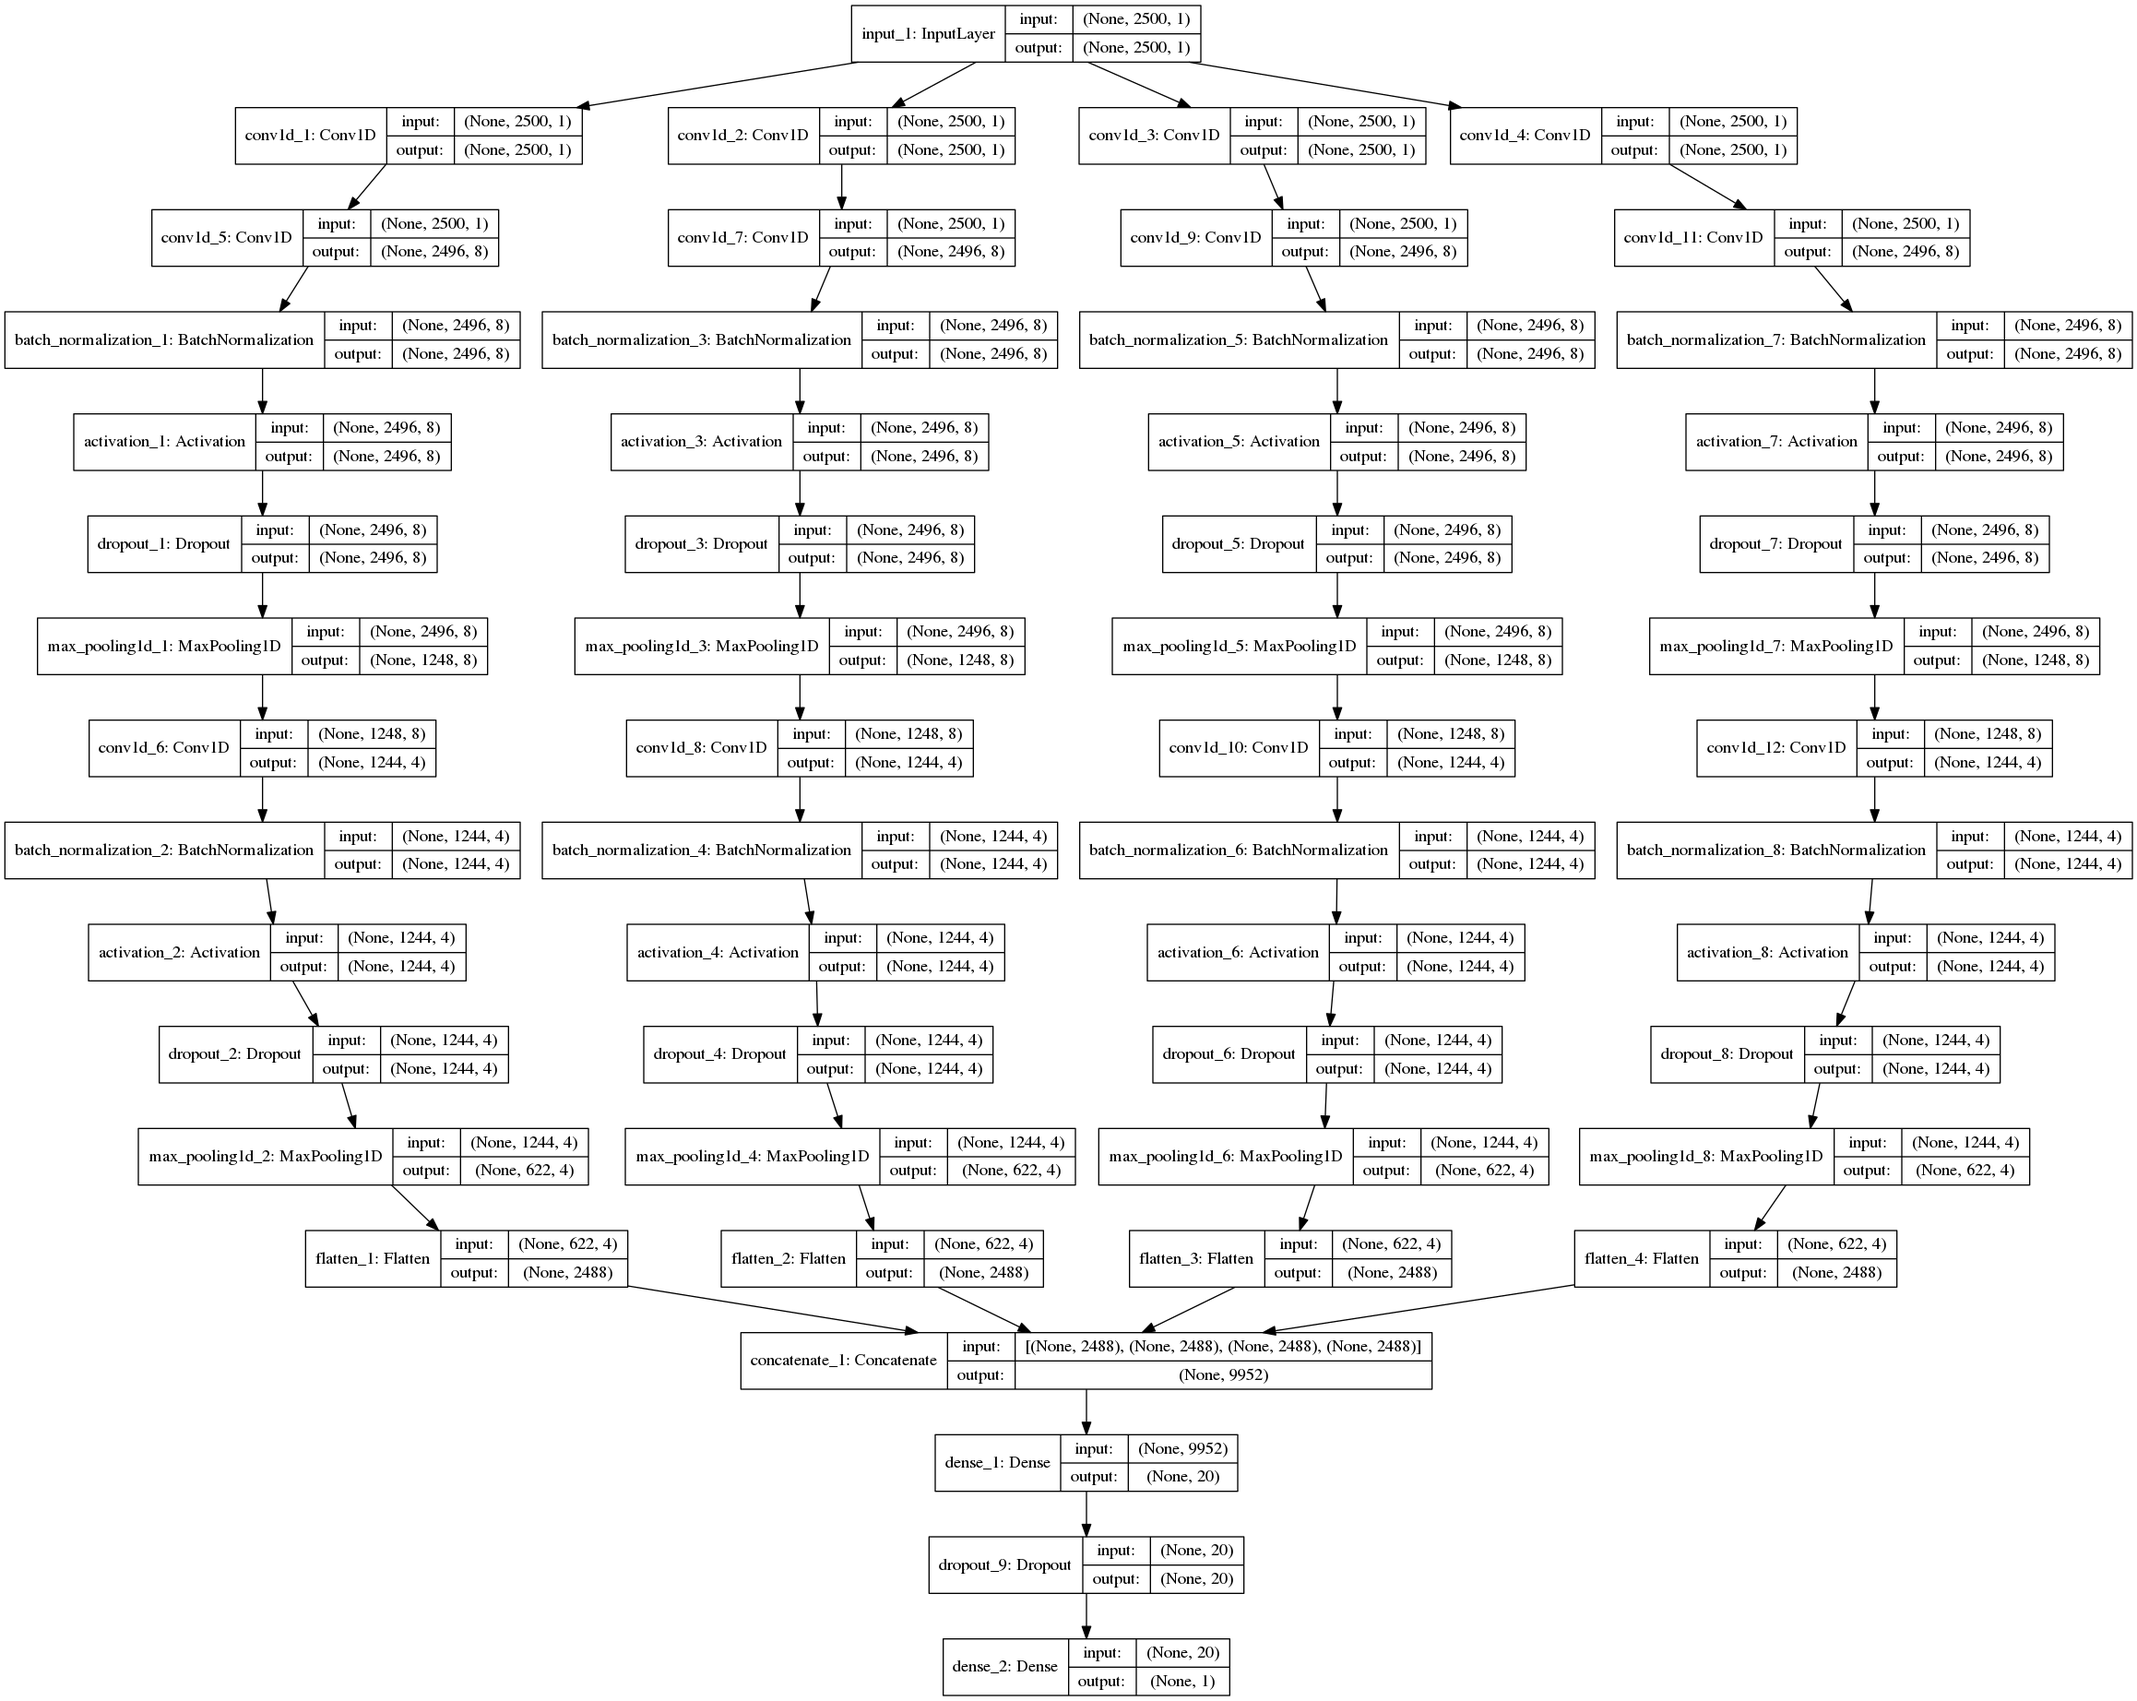
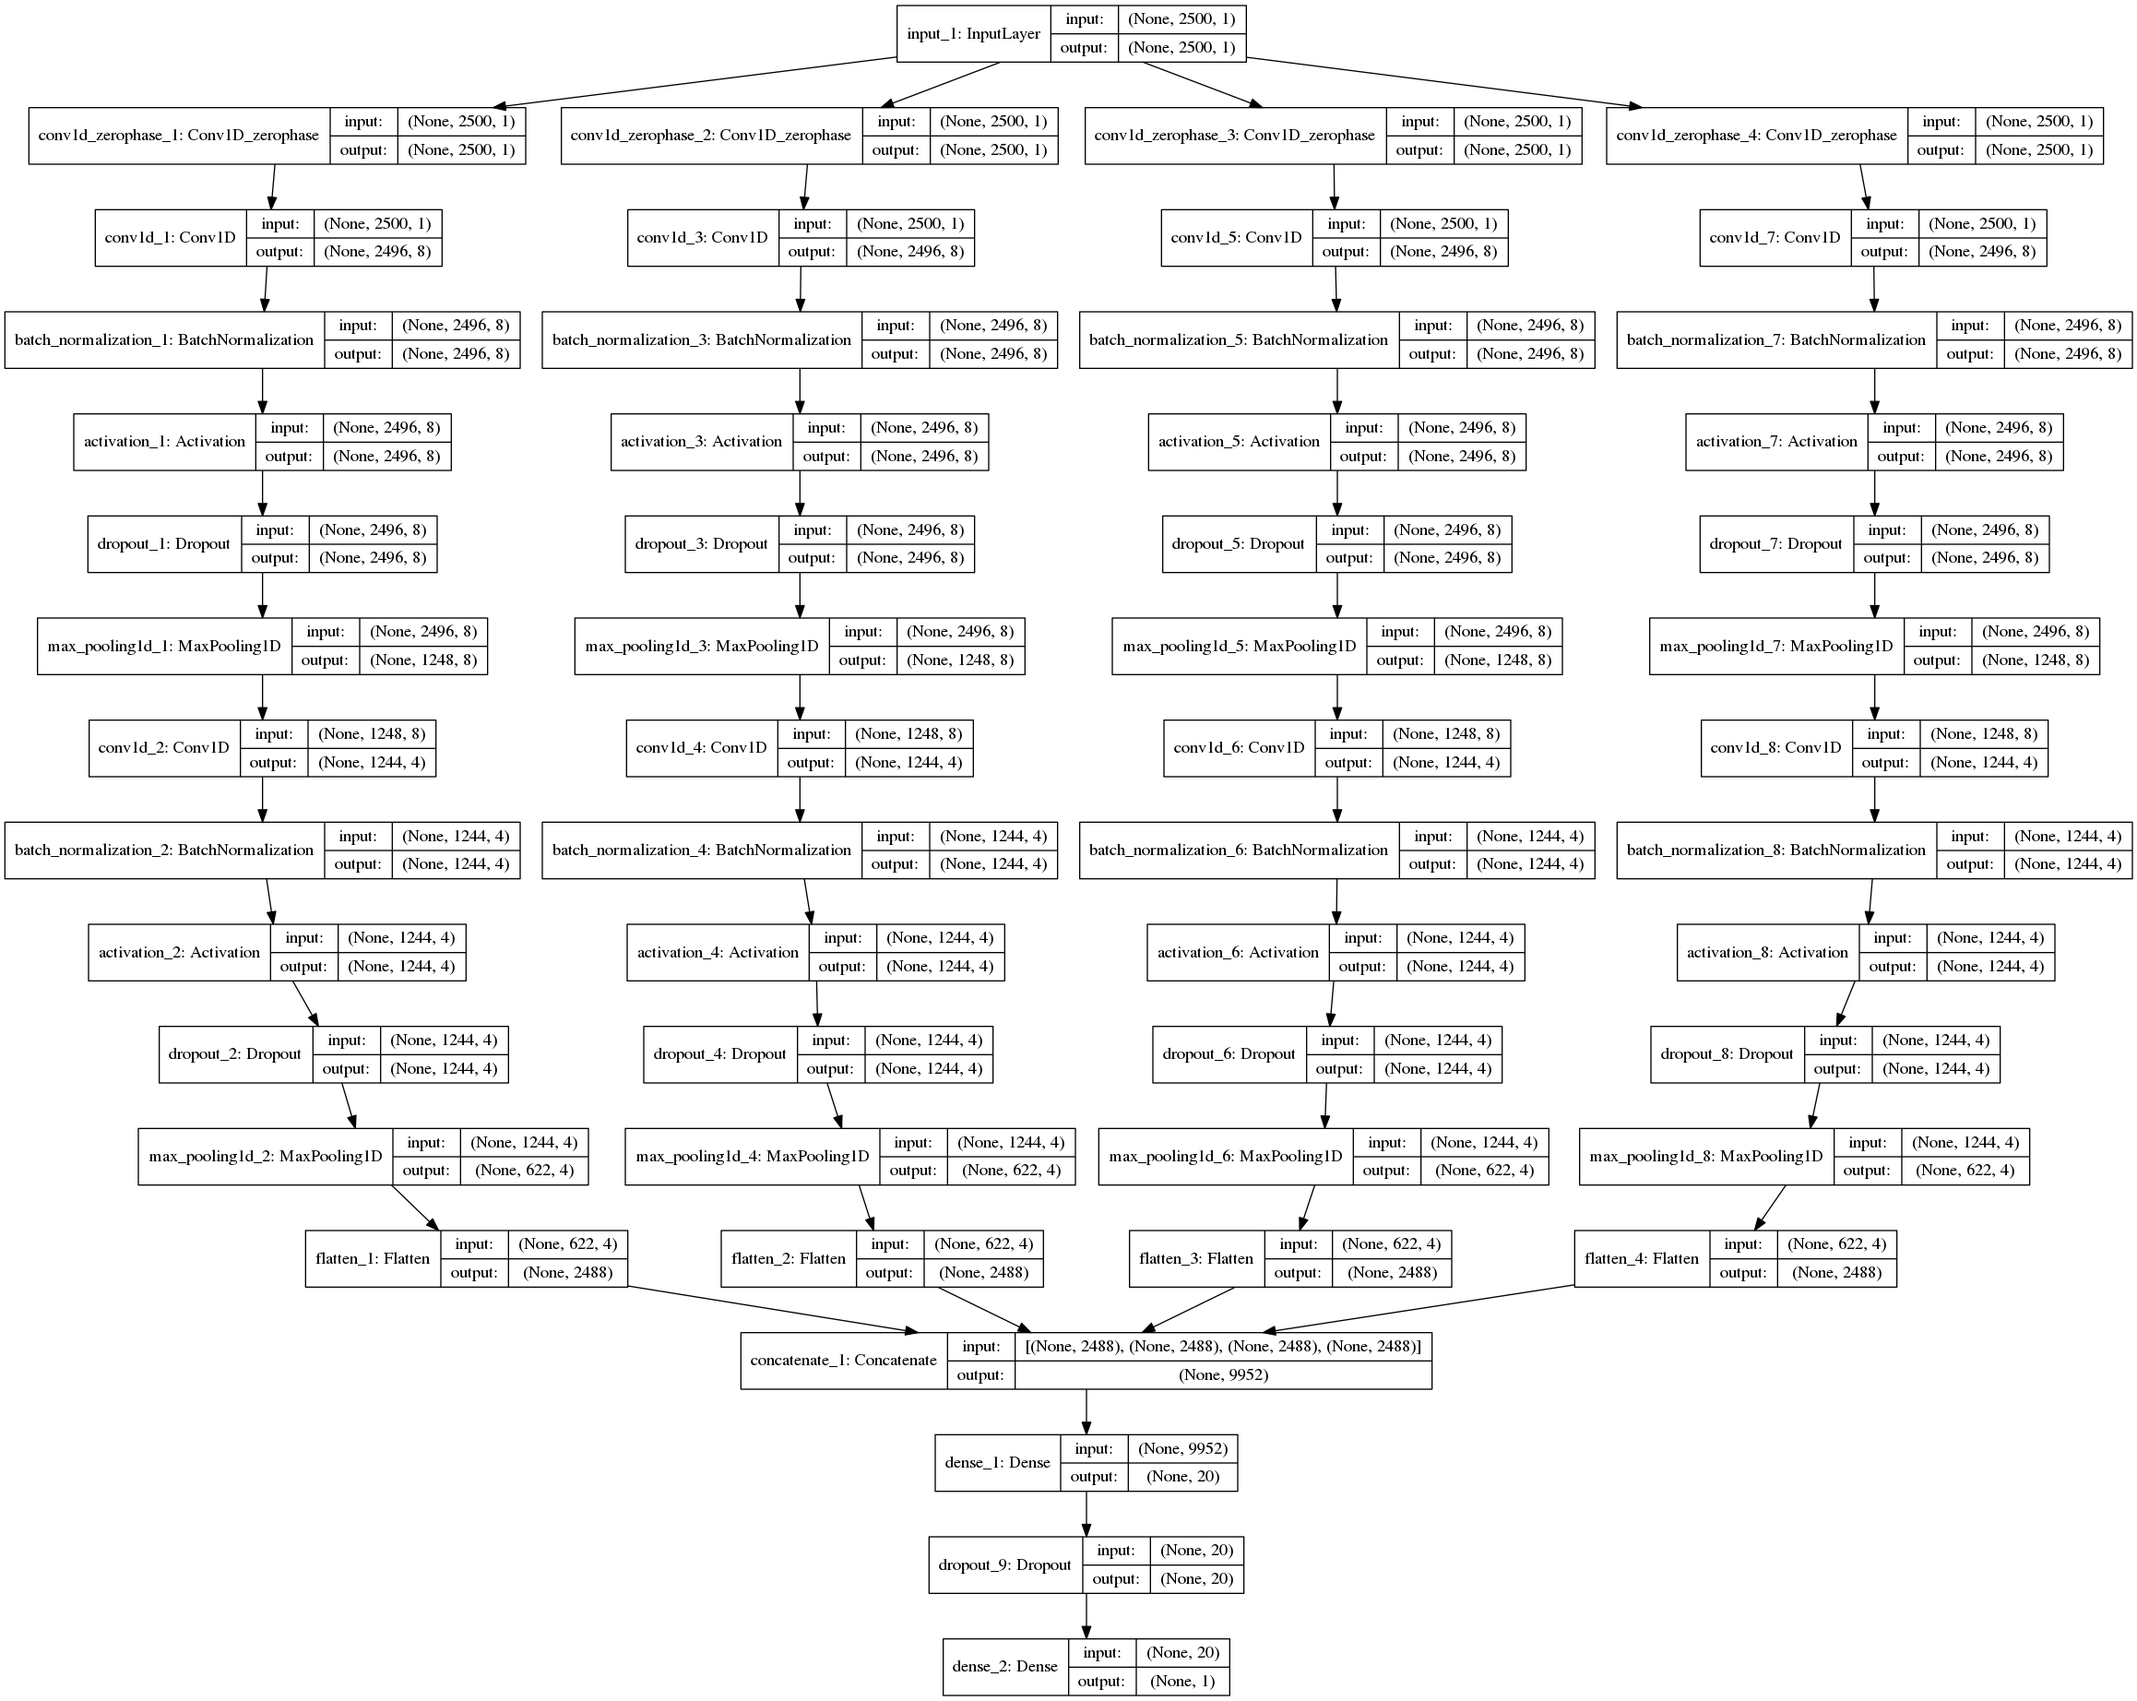
changed to non learn tConv

diff --git a/codes/heartnet_v1.py b/codes/heartnet_v1.py
@@ -2,7 +2,7 @@ from __future__ import print_function
 import tensorflow as tf
 from keras.backend.tensorflow_backend import set_session
 config = tf.ConfigProto()
-config.gpu_options.per_process_gpu_memory_fraction = 0.8
+config.gpu_options.per_process_gpu_memory_fraction = 0.4
 set_session(tf.Session(config=config))
 
 import os
@@ -90,19 +90,19 @@ def heartnet(load_path,activation_function, bn_momentum=0.99, bias=False, dropou
     b4 = np.hstack(b4)
     b4 = np.reshape(b4, [b4.shape[0], 1, 1])
 
-    input1 = Conv1D(1 ,61, use_bias=False,
+    input1 = Conv1D_zerophase(1 ,61, use_bias=False,
                     # kernel_initializer=initializers.he_normal(random_seed),
                     weights=[b1[:]],
                     padding='same',trainable=FIR_train)(input)
-    input2 = Conv1D(1, 61, use_bias=False,
+    input2 = Conv1D_zerophase(1, 61, use_bias=False,
                     # kernel_initializer=initializers.he_normal(random_seed),
                     weights=[b2[:]],
                     padding='same',trainable=FIR_train)(input)
-    input3 = Conv1D(1, 61, use_bias=False,
+    input3 = Conv1D_zerophase(1, 61, use_bias=False,
                     # kernel_initializer=initializers.he_normal(random_seed),
                     weights=[b3[:]],
                     padding='same',trainable=FIR_train)(input)
-    input4 = Conv1D(1, 61, use_bias=False,
+    input4 = Conv1D_zerophase(1, 61, use_bias=False,
                     # kernel_initializer=initializers.he_normal(random_seed),
                     weights=[b4[:]],
                     padding='same',trainable=FIR_train)(input)
@@ -427,7 +427,7 @@ if __name__ == '__main__':
         padding = 'valid'
         activation_function = 'relu'
         subsam = 2
-        FIR_train=True
+        FIR_train=False
 
 
         lr =  0.0012843784 ## After bayesian optimization
